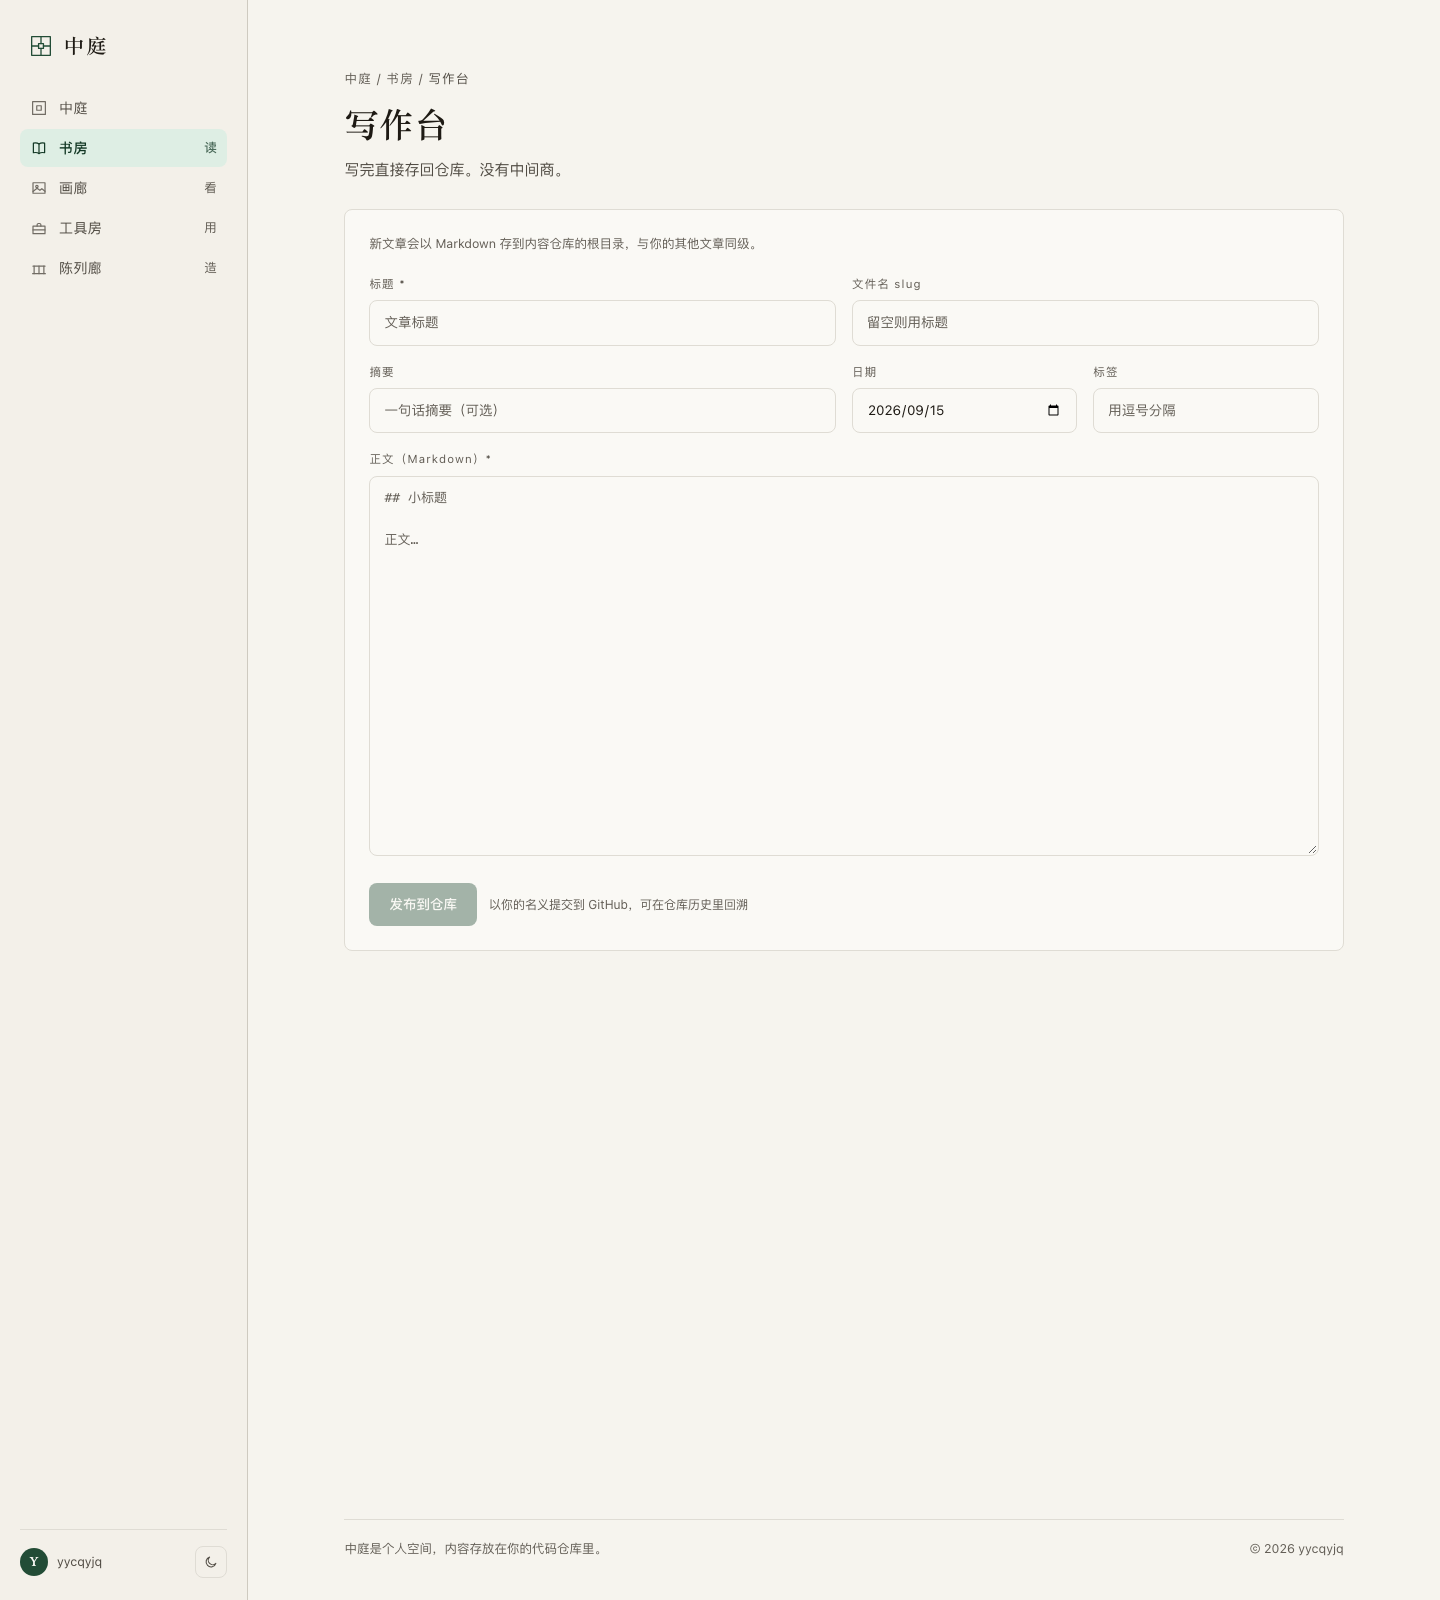
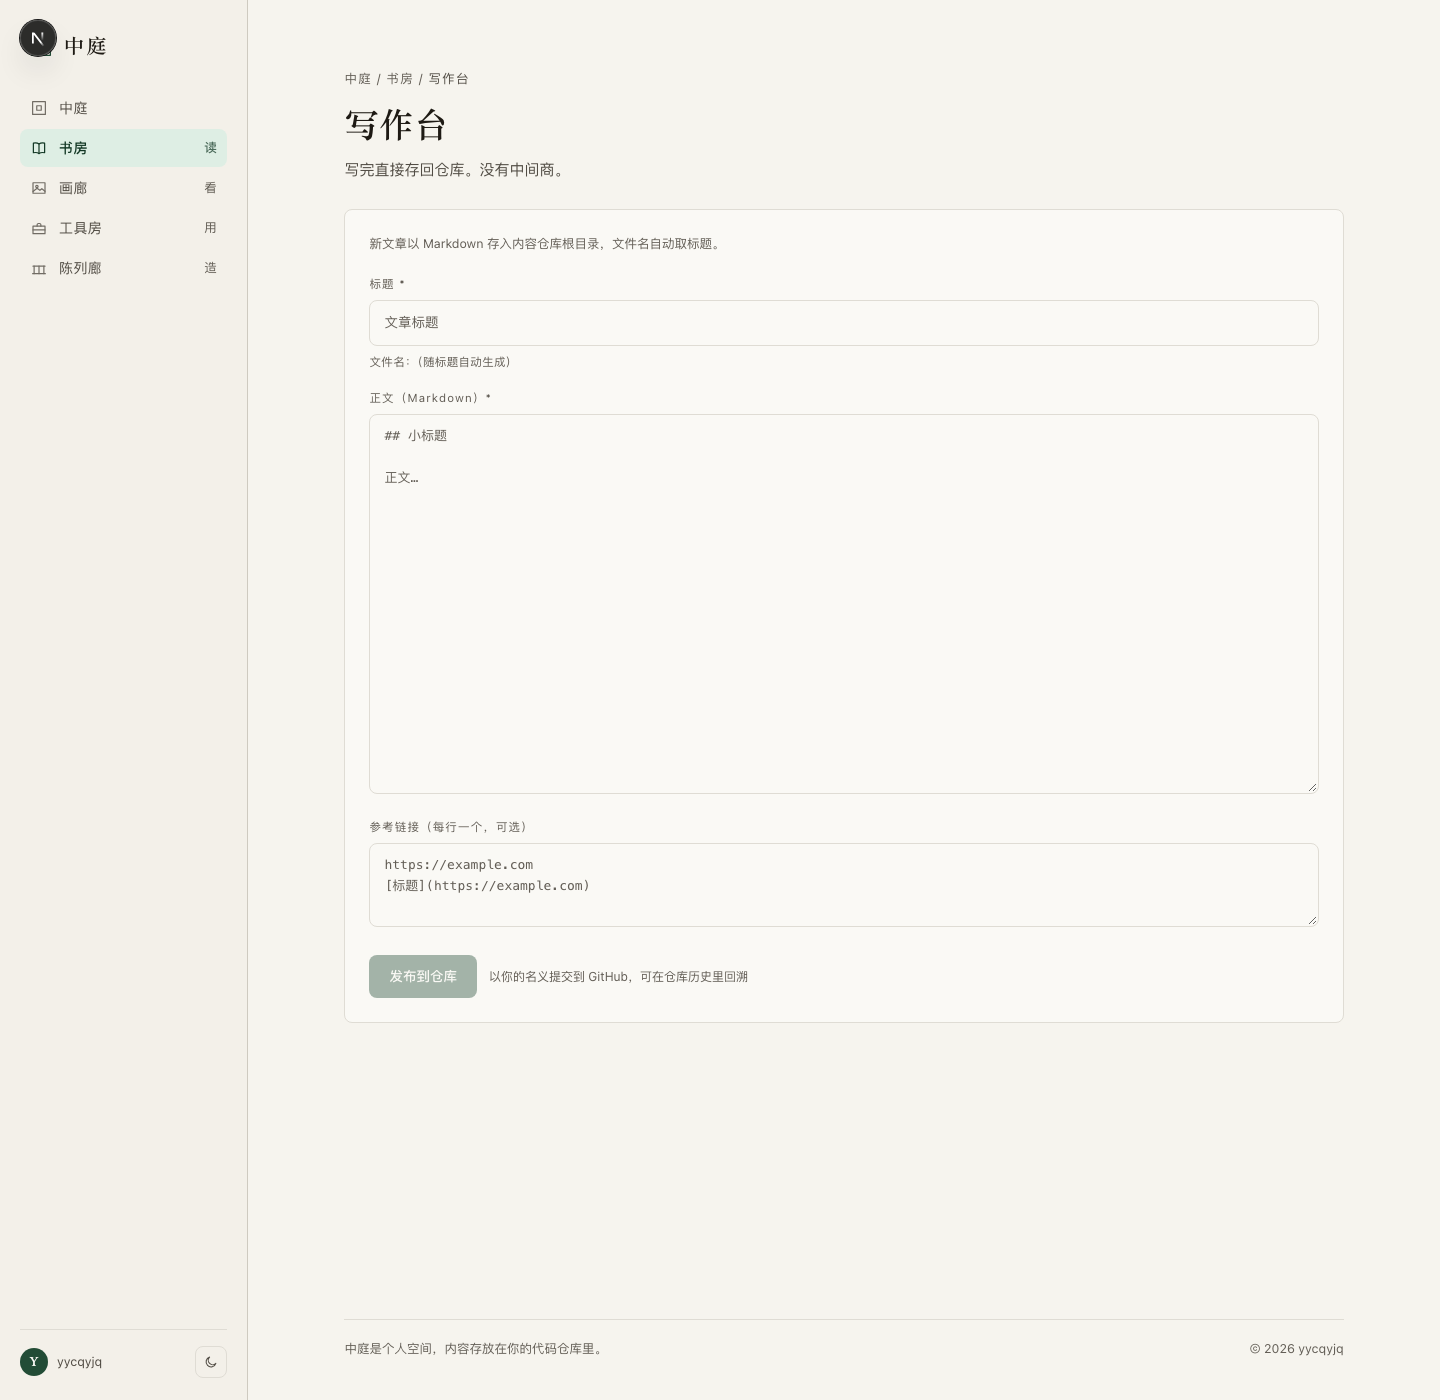
feat(study): 写作台极简重构 + 参考链接逻辑（移植旧版 ark-admin）
- 写作台字段精简：去掉 摘要/日期/标签/文件名 输入；文件名自动取标题（实时预览）
- 新增「参考链接（每行一个）」输入（仅新建）：按旧版格式附加到正文尾部
- 文章页移植参考链接展示：解析尾部 **参考链接** 段落、正文剥离、
  底部渲染链接列表（图标 + 链接，纯 URL 与 [标题](url) 两种解析）
- 修复：dev 脚本未注入写开关（ATRIUM_ALLOW_WRITE=1）导致 dev 模式写作 403
- 验证：CDP 全流程（三字段表单、文件名预览、发布成功）；
  仓库文件格式校验（front-matter 仅标题+日期、参考链接段落规范）；
  文章页渲染两个链接、正文无残留标记；测试文章已清理

diff --git a/src/components/study/WriteDesk.tsx b/src/components/study/WriteDesk.tsx
@@ -6,18 +6,30 @@ import { useState } from "react";
 
 type WriteState = "edit" | "saving" | "saved" | "error";
 
+/** 文件名自动识别：标题去掉路径不安全字符后即为文件名 */
+export function fileNameFromTitle(title: string): string {
+  return title
+    .trim()
+    .replace(/[\\/:*?"<>|]/g, " ")
+    .replace(/\s+/g, " ")
+    .trim();
+}
+
 /**
  * 书房写作台：新建 / 更新文章，直接发布到内容仓库。
- * slug 为空时视为新建；编辑已有文章时由页面传入 slug 与初始内容。
+ * - 文件名自动取标题（不再手填）；
+ * - 新文章可选填「参考链接（每行一个）」，保存时按旧版格式附加到正文尾部；
+ * - 编辑模式沿用原文，参考链接在正文中原文保留。
  */
-export default function WriteDesk({ initial }: { initial?: { slug: string; title: string; description: string; date: string; tags: string[]; body: string } }) {
+export default function WriteDesk({
+  initial,
+}: {
+  initial?: { slug: string; title: string; body: string };
+}) {
   const router = useRouter();
-  const [slug, setSlug] = useState(initial?.slug ?? "");
   const [title, setTitle] = useState(initial?.title ?? "");
-  const [description, setDescription] = useState(initial?.description ?? "");
-  const [date, setDate] = useState(initial?.date ?? new Date().toISOString().slice(0, 10));
-  const [tags, setTags] = useState(initial?.tags?.join(", ") ?? "");
   const [body, setBody] = useState(initial?.body ?? "");
+  const [refs, setRefs] = useState("");
   const [state, setState] = useState<WriteState>("edit");
   const [message, setMessage] = useState("");
   const [savedSlug, setSavedSlug] = useState("");
@@ -25,22 +37,30 @@ export default function WriteDesk({ initial }: { initial?: { slug: string; title
   const [deleting, setDeleting] = useState(false);
 
   const isEdit = Boolean(initial?.slug);
+  const autoSlug = initial?.slug ?? fileNameFromTitle(title);
   const canSave = title.trim() !== "" && body.trim() !== "" && state !== "saving";
 
   async function save() {
     setState("saving");
     setMessage("");
     try {
+      // 参考链接：仅新建时附加（旧版格式），编辑模式沿用原文
+      let finalBody = body;
+      const refLines = refs
+        .split("\n")
+        .map((l) => l.trim())
+        .filter(Boolean);
+      if (!isEdit && refLines.length > 0) {
+        finalBody = `${body.replace(/\s+$/, "")}\n\n---\n\n**参考链接**：\n${refLines.map((l) => `- ${l}`).join("\n")}`;
+      }
+
       const res = await fetch("/api/write", {
         method: "POST",
         headers: { "Content-Type": "application/json" },
         body: JSON.stringify({
-          slug: slug.trim() || title.trim(),
+          slug: autoSlug,
           title: title.trim(),
-          description: description.trim(),
-          date: date.trim(),
-          tags: tags.split(/[,，]/).map((t) => t.trim()).filter(Boolean),
-          body,
+          body: finalBody,
         }),
       });
       const data = (await res.json()) as { ok?: boolean; path?: string; error?: string };
@@ -51,7 +71,7 @@ export default function WriteDesk({ initial }: { initial?: { slug: string; title
       }
       setState("saved");
       setMessage(`已发布到仓库：${data.path}`);
-      setSavedSlug(slug.trim() || title.trim());
+      setSavedSlug(autoSlug);
       router.refresh();
     } catch {
       setState("error");
@@ -86,7 +106,8 @@ export default function WriteDesk({ initial }: { initial?: { slug: string; title
     }
   }
 
-  const field = "w-full rounded-ctl border border-line bg-raised px-3.5 py-2.5 text-[13.5px] outline-none transition-colors duration-150 placeholder:text-ink-3 focus:border-accent";
+  const field =
+    "w-full rounded-ctl border border-line bg-raised px-3.5 py-2.5 text-[13.5px] outline-none transition-colors duration-150 placeholder:text-ink-3 focus:border-accent";
   const label = "mb-1.5 block text-[11.5px] tracking-[0.1em] text-ink-3";
 
   if (state === "saved") {
@@ -130,35 +151,26 @@ export default function WriteDesk({ initial }: { initial?: { slug: string; title
   return (
     <div className="rounded-ctl border border-line bg-raised p-5 md:p-6">
       <p className="mb-5 text-[12.5px] leading-relaxed text-ink-3">
-        {isEdit ? `正在编辑：${initial?.slug}.md` : "新文章会以 Markdown 存到内容仓库的根目录，与你的其他文章同级。"}
+        {isEdit
+          ? `正在编辑：${initial?.slug}.md`
+          : "新文章以 Markdown 存入内容仓库根目录，文件名自动取标题。"}
       </p>
 
-      <div className="mb-4 grid gap-4 md:grid-cols-2">
-        <div>
-          <label className={label} htmlFor="write-title">标题 *</label>
-          <input id="write-title" className={field} value={title} onChange={(e) => setTitle(e.target.value)} placeholder="文章标题" />
-        </div>
-        <div>
-          <label className={label} htmlFor="write-slug">文件名 slug</label>
-          <input id="write-slug" className={field} value={slug} onChange={(e) => setSlug(e.target.value)} placeholder="留空则用标题" disabled={isEdit} />
-        </div>
-        <div>
-          <label className={label} htmlFor="write-desc">摘要</label>
-          <input id="write-desc" className={field} value={description} onChange={(e) => setDescription(e.target.value)} placeholder="一句话摘要（可选）" />
-        </div>
-        <div className="grid grid-cols-2 gap-4">
-          <div>
-            <label className={label} htmlFor="write-date">日期</label>
-            <input id="write-date" type="date" className={field} value={date} onChange={(e) => setDate(e.target.value)} />
-          </div>
-          <div>
-            <label className={label} htmlFor="write-tags">标签</label>
-            <input id="write-tags" className={field} value={tags} onChange={(e) => setTags(e.target.value)} placeholder="用逗号分隔" />
-          </div>
-        </div>
+      <div className="mb-4">
+        <label className={label} htmlFor="write-title">标题 *</label>
+        <input
+          id="write-title"
+          className={field}
+          value={title}
+          onChange={(e) => setTitle(e.target.value)}
+          placeholder="文章标题"
+        />
+        <p className="mt-1.5 text-[11.5px] tracking-[0.03em] text-ink-3">
+          文件名：{autoSlug ? `${autoSlug}.md` : "（随标题自动生成）"}
+        </p>
       </div>
 
-      <div className="mb-5">
+      <div className="mb-4">
         <label className={label} htmlFor="write-body">正文（Markdown）*</label>
         <textarea
           id="write-body"
@@ -168,6 +180,21 @@ export default function WriteDesk({ initial }: { initial?: { slug: string; title
           placeholder={"## 小标题\n\n正文…"}
         />
       </div>
+
+      {!isEdit ? (
+        <div className="mb-5">
+          <label className={label} htmlFor="write-refs">参考链接（每行一个，可选）</label>
+          <textarea
+            id="write-refs"
+            className={`${field} min-h-[84px] resize-y font-mono text-[13px] leading-relaxed`}
+            value={refs}
+            onChange={(e) => setRefs(e.target.value)}
+            placeholder={"https://example.com\n[标题](https://example.com)"}
+          />
+        </div>
+      ) : (
+        <div className="mb-5" />
+      )}
 
       {state === "error" ? (
         <p className="mb-4 rounded-ctl border border-accent bg-accent-soft px-4 py-2.5 text-[13px] text-accent-ink">{message}</p>

diff --git a/src/app/study/[...slug]/page.tsx b/src/app/study/[...slug]/page.tsx
@@ -8,6 +8,7 @@ import StudyBrowser, { type BrowserSection } from "@/components/study/StudyBrows
 import FloorNav from "@/components/shell/FloorNav";
 import { IconArrowRight } from "@/components/icons";
 import { getPostBySlug, getStudyDir, type PostMeta } from "@/lib/content";
+import { splitReferenceLinks } from "@/lib/reference-links";
 import { extractToc } from "@/lib/toc";
 
 export const dynamic = "force-dynamic";
@@ -130,7 +131,8 @@ export default async function StudySlugPage({ params }: Props) {
   }
 
   if (post) {
-    const { meta, body } = post;
+    const { meta } = post;
+    const { body, links } = splitReferenceLinks(post.body);
     const toc = extractToc(body);
     const folderSegments = meta.slug.split("/").slice(0, -1);
 
@@ -188,6 +190,40 @@ export default async function StudySlugPage({ params }: Props) {
               </aside>
             ) : null}
           </div>
+
+          {links.length > 0 ? (
+            <section className="mt-12 max-w-[44em] border-t border-line pt-6">
+              <h2 className="mb-3 font-serif text-[15px] tracking-[0.08em] text-ink-2">参考链接</h2>
+              <ul className="space-y-2">
+                {links.map((link) => (
+                  <li key={link.url} className="flex items-start gap-2.5">
+                    <svg
+                      viewBox="0 0 24 24"
+                      fill="none"
+                      stroke="currentColor"
+                      strokeWidth="1.6"
+                      strokeLinecap="round"
+                      strokeLinejoin="round"
+                      aria-hidden="true"
+                      className="mt-[3.5px] size-[13px] shrink-0 text-accent"
+                    >
+                      <path d="M10.5 13.5 L13.5 10.5" />
+                      <path d="M9 7 L11 5 C12.4 3.6 14.6 3.6 16 5 L19 8 C20.4 9.4 20.4 11.6 19 13 L17 15" />
+                      <path d="M15 17 L13 19 C11.6 20.4 9.4 20.4 8 19 L5 16 C3.6 14.6 3.6 12.4 5 11 L7 9" />
+                    </svg>
+                    <a
+                      href={link.url}
+                      target="_blank"
+                      rel="noreferrer"
+                      className="break-all text-[13.5px] leading-relaxed text-ink-2 underline decoration-line-strong underline-offset-4 transition-colors duration-150 hover:text-accent hover:decoration-accent/50"
+                    >
+                      {link.label}
+                    </a>
+                  </li>
+                ))}
+              </ul>
+            </section>
+          ) : null}
 
           <div className="mt-14 border-t border-line pt-6">
             <Link

diff --git a/src/app/api/write/route.ts b/src/app/api/write/route.ts
@@ -14,8 +14,14 @@ export async function DELETE(request: Request) {
   const { searchParams } = new URL(request.url);
   const slug = (searchParams.get("slug") ?? "").trim();
 
-  if (!/^[0-9A-Za-z\u4e00-\u9fff][0-9A-Za-z\u4e00-\u9fff _/-]*$/.test(slug) || slug.includes("..")) {
-    return NextResponse.json({ error: "slug 不合法" }, { status: 400 });
+  if (
+    !slug ||
+    slug.startsWith(".") ||
+    slug.includes("\\") ||
+    slug.includes("..") ||
+    /[\u0000-\u001f:*?"<>|]/.test(slug.replace(/\//g, ""))
+  ) {
+    return NextResponse.json({ error: "文件名包含不可用字符" }, { status: 400 });
   }
 
   try {
@@ -82,9 +88,16 @@ export async function POST(request: Request) {
   const body = typeof payload.body === "string" ? payload.body : "";
   const sha = typeof payload.sha === "string" && payload.sha ? payload.sha : undefined;
 
-  // slug：中英文、数字、连字符，防止路径穿越
-  if (!/^[0-9A-Za-z\u4e00-\u9fff][0-9A-Za-z\u4e00-\u9fff _-]*$/.test(slug) || slug.includes("..")) {
-    return NextResponse.json({ error: "slug 只能包含中英文、数字、空格、连字符或下划线" }, { status: 400 });
+  // 文件名从标题自动生成：只禁止路径不安全字符，兼容中文标点（：+、 等）
+  if (
+    !slug ||
+    slug.startsWith(".") ||
+    slug.includes("/") ||
+    slug.includes("\\") ||
+    slug.includes("..") ||
+    /[\u0000-\u001f:*?"<>|]/.test(slug)
+  ) {
+    return NextResponse.json({ error: "文件名包含不可用字符" }, { status: 400 });
   }
   if (!title) {
     return NextResponse.json({ error: "缺少 title" }, { status: 400 });

diff --git a/src/lib/reference-links.ts b/src/lib/reference-links.ts
@@ -1,0 +1,49 @@
+/**
+ * 参考链接：拆分正文尾部的「**参考链接**」段落（与旧版 ark-admin 格式兼容）。
+ *
+ * 约定格式（写作台自动生成）：
+ *
+ * ```
+ * 正文……
+ *
+ * ---
+ *
+ * **参考链接**：
+ * - https://example.com
+ * - [标题](https://example.com)
+ * ```
+ */
+export type ReferenceLink = { label: string; url: string };
+
+const MARKER = "\n\n---\n\n**参考链接**";
+
+export function splitReferenceLinks(raw: string): { body: string; links: ReferenceLink[] } {
+  const md = raw.replace(/\r\n/g, "\n");
+  const idx = md.lastIndexOf(MARKER);
+  if (idx === -1) return { body: raw, links: [] };
+
+  const body = md.slice(0, idx).replace(/\s+$/, "");
+  const tail = md.slice(idx);
+  const section = tail.match(/\*\*参考链接\*\*[：:]?\s*\n([\s\S]*)/);
+  if (!section) return { body: raw, links: [] };
+
+  const links: ReferenceLink[] = [];
+  for (const line of section[1].split("\n")) {
+    const m = line.match(/^\s*[-*]\s*(.+?)\s*$/);
+    if (!m) continue;
+    const item = m[1].trim();
+    if (!item) continue;
+
+    // [标题](url) 形式
+    const mdLink = item.match(/^\[([^\]]*)\]\((<?[^)\s]+>?)\)$/);
+    if (mdLink) {
+      links.push({ label: mdLink[1].trim() || mdLink[2], url: mdLink[2].replace(/^<|>$/g, "") });
+      continue;
+    }
+    // 裸链接（可带 <> 包裹）
+    const url = item.replace(/^<|>$/g, "");
+    links.push({ label: url, url });
+  }
+
+  return { body, links };
+}

diff --git a/src/app/study/write/page.tsx b/src/app/study/write/page.tsx
@@ -16,7 +16,7 @@ export default async function WritePage({
 }) {
   const { edit } = await searchParams;
 
-  let initial: { slug: string; title: string; description: string; date: string; tags: string[]; body: string } | undefined;
+  let initial: { slug: string; title: string; body: string } | undefined;
   if (edit) {
     try {
       const provider = await getProvider();
@@ -26,14 +26,7 @@ export default async function WritePage({
       const fm = m?.[1] ?? "";
       const body = m?.[2] ?? text;
       const pick = (key: string) => new RegExp(`^${key}:\\s*(.+)$`, "m").exec(fm)?.[1]?.trim().replace(/^"|"$/g, "") ?? "";
-      initial = {
-        slug: edit,
-        title: pick("title"),
-        description: pick("description"),
-        date: pick("date") || new Date().toISOString().slice(0, 10),
-        tags: /^\s*tags:\s*\[(.+)\]/m.exec(fm)?.[1]?.split(",").map((t) => t.trim().replace(/^"|"$/g, "")).filter(Boolean) ?? [],
-        body,
-      };
+      initial = { slug: edit, title: pick("title"), body };
     } catch {
       initial = undefined; // 找不到就当新建
     }
